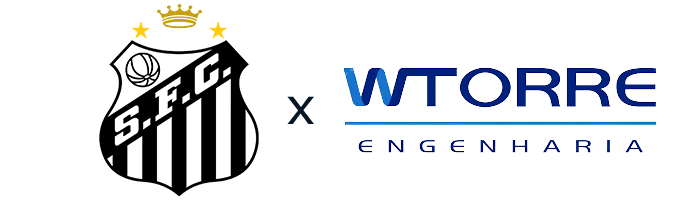
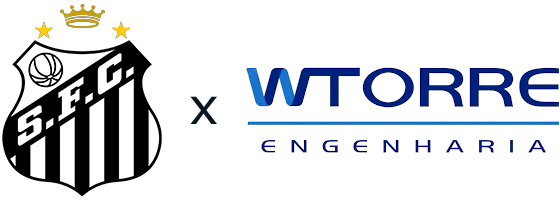
Added all files

Changed region(s): [[0.0, 0.03, 1.0, 0.99], [0.4554, 0.69, 0.9714, 0.78]]

diff --git a/main.css b/main.css
@@ -10,6 +10,12 @@ header {
     padding: 8px 0px;
 }
 
+.container {
+    max-width: 1920px;
+    width: 100%;
+    margin: 0px auto;
+}
+
 header .container{
     display: flex;
     align-items: center;
@@ -52,7 +58,7 @@ section .container{
 }
 
 section video {
-    height: 512px;
+    width: 50vw;
 }
 
 section h2 {
@@ -90,8 +96,9 @@ section p {
 }
 
 .partnership img {
+    display: block;
+    margin-left: auto;
     margin-right: auto;
-    margin-left: 26.25%;
 }
 
 .articles {
@@ -133,6 +140,7 @@ section p {
 }
 
 .social-links a {
+    display: inline-flex;
     text-decoration: none;
     margin-right: 16px;
 }
@@ -147,6 +155,10 @@ section p {
 }
 
 .social-links {
+    display: flex;
+    flex-direction: column;
+    align-items: center;
+    text-align: center;
     margin-top: 128px;
 }
 
